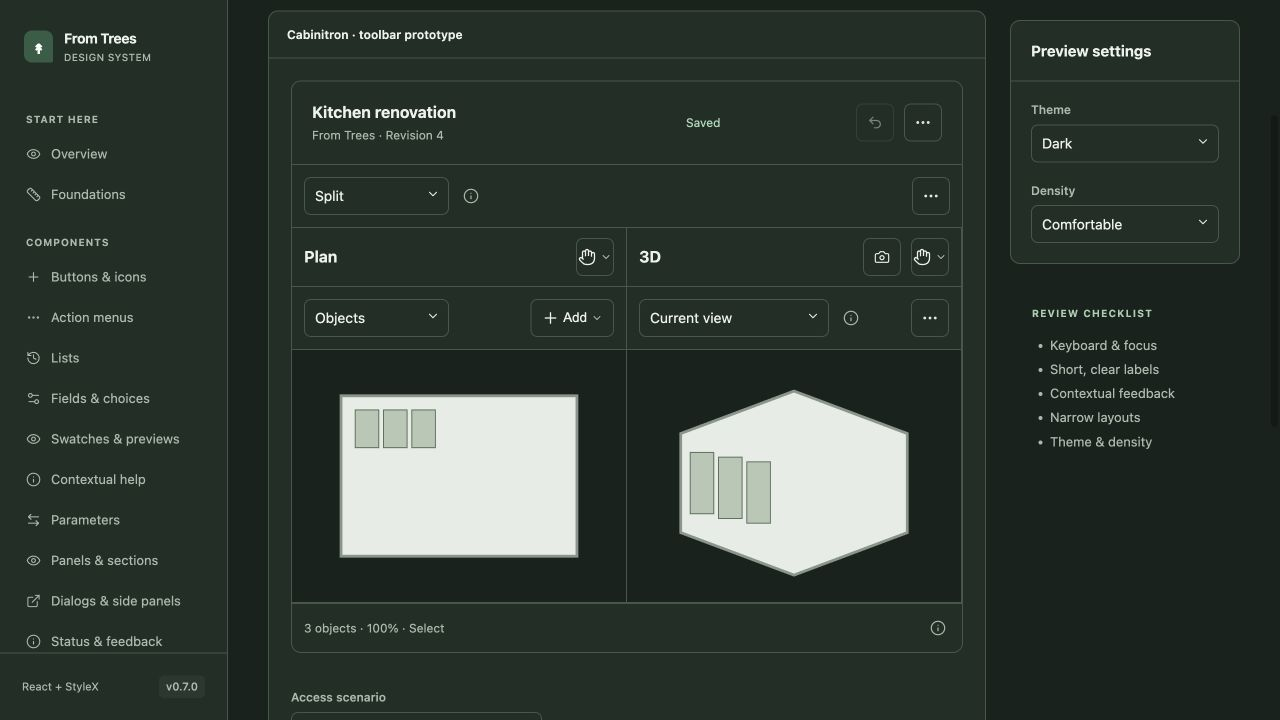
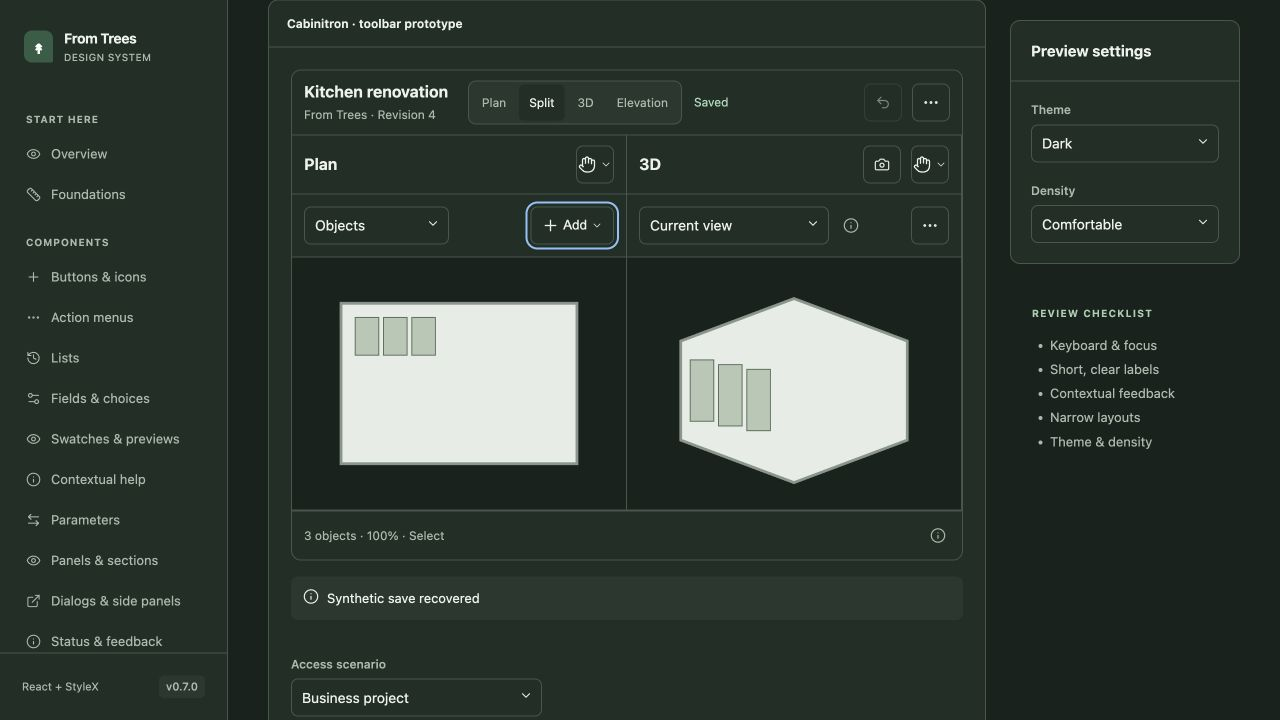
Merge workspace modes and actions into compact project header

diff --git a/apps/catalog/src/DesignerToolbarPrototype.tsx b/apps/catalog/src/DesignerToolbarPrototype.tsx
@@ -6,6 +6,7 @@ import {
   WorkspaceHeader,
   TaskHeader,
   Select,
+  SegmentedControl,
   Dialog,
   SidePanel,
   TextInput,
@@ -801,13 +802,10 @@ export function DesignerToolbarPrototype() {
                 onAction: undoAction,
               }}
               menuLabel="Project actions"
-              actions={projectActions}
-            />
-            <div {...stylex.props(styles.bar)}>
-              <CommandBar
-                label="Workspace commands"
-                menuLabel="Workspace tools"
-                actions={[
+              compact
+              actions={[
+                ...projectActions,
+                ...[
                   action(
                     "customize",
                     "Customize cabinet",
@@ -843,24 +841,25 @@ export function DesignerToolbarPrototype() {
                     () => open("Designer help"),
                     "info",
                   ),
-                ]}
-              >
-                {choose(
-                  "Workspace view",
-                  view,
-                  (value) => {
-                    setView(value);
-                    setPending(undefined);
-                  },
-                  ["Plan", "Split", "3D", "Elevation"],
-                )}
-                <InfoTooltip label="Workspace views">
-                  Plan and 3D share the same design. View changes do not edit
-                  the saved room. Elevations describe cabinetry-facing views;
-                  dimensions require field verification.
-                </InfoTooltip>
-              </CommandBar>
-            </div>
+                ].map((item, index) => ({
+                  ...item,
+                  separatorBefore: index === 0,
+                })),
+              ]}
+            >
+              <SegmentedControl
+                label="Workspace view"
+                value={view}
+                onChange={(value) => {
+                  setView(value);
+                  setPending(undefined);
+                }}
+                options={["Plan", "Split", "3D", "Elevation"].map((value) => ({
+                  value,
+                  label: value,
+                }))}
+              />
+            </WorkspaceHeader>
             {view === "Elevation" ? (
               <>
                 <WorkspaceHeader

diff --git a/packages/ui/src/CommandBar.tsx b/packages/ui/src/CommandBar.tsx
@@ -19,6 +19,7 @@ export type CommandBarProps = {
   menuIcon?: IconName;
   menuText?: string;
   status?: CommandStatus;
+  inline?: boolean;
 };
 const styles = stylex.create({
   bar: {
@@ -30,6 +31,17 @@ const styles = stylex.create({
     width: "100%",
     boxSizing: "border-box",
   },
+  inline: {
+    flexWrap: { default: "nowrap", "@media (max-width: 700px)": "wrap" },
+  },
+  inlineLeading: { flexShrink: 0 },
+  workspace: {
+    display: "grid",
+    gridTemplateColumns: {
+      default: "minmax(80px,1fr) minmax(0,auto)",
+      "@media (max-width: 700px)": "minmax(0,1fr)",
+    },
+  },
   leading: {
     display: "flex",
     alignItems: "center",
@@ -39,7 +51,7 @@ const styles = stylex.create({
     flexGrow: 1,
   },
   trailing: {
-    minWidth:0,
+    minWidth: 0,
     display: "flex",
     alignItems: "center",
     gap: 10,
@@ -145,15 +157,20 @@ export function CommandBar({
   menuIcon,
   menuText,
   status,
+  inline = false,
 }: CommandBarProps) {
   return (
     <div
       role="toolbar"
       aria-label={label}
       onKeyDown={arrowNavigation}
-      {...stylex.props(layout.row, gap.md, styles.bar)}
+      {...stylex.props(layout.row, gap.md, styles.bar, inline && styles.inline)}
     >
-      {children && <div {...stylex.props(styles.leading)}>{children}</div>}
+      {children && (
+        <div {...stylex.props(styles.leading, inline && styles.inlineLeading)}>
+          {children}
+        </div>
+      )}
       <div {...stylex.props(styles.trailing)}>
         {status && (
           <span
@@ -219,7 +236,11 @@ export function WorkspaceHeader({
   return (
     <header
       aria-labelledby={id}
-      {...stylex.props(styles.header, compact && styles.compact)}
+      {...stylex.props(
+        styles.header,
+        styles.workspace,
+        compact && styles.compact,
+      )}
     >
       <div {...stylex.props(styles.identity)}>
         <Heading id={id} title={title} {...stylex.props(styles.title)}>
@@ -232,7 +253,7 @@ export function WorkspaceHeader({
         )}
       </div>
       <div {...stylex.props(styles.commands)}>
-        <CommandBar {...commands} />
+        <CommandBar {...commands} inline />
       </div>
     </header>
   );

diff --git a/apps/catalog/test/DesignerToolbarPrototype.test.tsx b/apps/catalog/test/DesignerToolbarPrototype.test.tsx
@@ -14,6 +14,13 @@ const setup = () => {
 const select = (name: string) => screen.getByRole("combobox", { name });
 it("places through one add menu, supports cancel/undo/redo and retains state across views", async () => {
   const user = setup();
+  const commands = screen.getByRole("toolbar", { name: "Project commands" });
+  expect(
+    within(commands).getByRole("radiogroup", { name: "Workspace view" }),
+  ).toBeInTheDocument();
+  expect(
+    screen.queryByRole("toolbar", { name: "Workspace commands" }),
+  ).not.toBeInTheDocument();
   await user.click(screen.getByRole("button", { name: "Add to room" }));
   await user.click(screen.getByRole("menuitem", { name: "Cabinet" }));
   expect(
@@ -32,11 +39,11 @@ it("places through one add menu, supports cancel/undo/redo and retains state acr
   await user.click(screen.getByRole("button", { name: "Project actions" }));
   await user.click(screen.getByRole("menuitem", { name: "Redo" }));
   expect(screen.getByText(/4 objects/)).toBeInTheDocument();
-  await user.selectOptions(select("Workspace view"), "Elevation");
+  await user.click(screen.getByRole("radio", { name: "Elevation" }));
   expect(
     screen.getByRole("heading", { name: "Elevations" }),
   ).toBeInTheDocument();
-  await user.selectOptions(select("Workspace view"), "Split");
+  await user.click(screen.getByRole("radio", { name: "Split" }));
   expect(screen.getByText(/4 objects/)).toBeInTheDocument();
 });
 it("keeps public/customer capabilities distinct and recovers failed saves through the menu", async () => {
@@ -100,7 +107,7 @@ it("saves views through a focused task and confirms deletion", async () => {
 it("customizer has one task header and discards or saves its part draft", async () => {
   const user = setup();
   const open = async () => {
-    await user.click(screen.getByRole("button", { name: "Workspace tools" }));
+    await user.click(screen.getByRole("button", { name: "Project actions" }));
     await user.click(
       screen.getByRole("menuitem", { name: "Customize cabinet" }),
     );

diff --git a/apps/catalog/src/content.ts b/apps/catalog/src/content.ts
@@ -176,7 +176,7 @@ export const behavior: Partial<Record<PageId, string[]>> = {
   ],
   "designer-toolbars": [
     "One project header replaces duplicated host/document identity. Project actions retain their business-project, anonymous-draft and customer-view eligibility.",
-    "View and tool choices use selectors. Add commands and viewport navigation use menus; no rows of three or more exposed action buttons.",
+    "Workspace view modes use the existing segmented control inside the project header. Workspace commands join its menu; there is no separate selector toolbar. Other tool choices use selectors.",
     "Photo capture is a direct icon action. Saved-view selection has one management menu, including render options, first customer view and deletion.",
     "Customization owns a single Save/Cancel task header, a view/tool/snap command bar and focused part selection. This prototype does not replace the existing advanced editor.",
     "Review controls exercise save failures, read-only access, drafts and busy photos. All operations use synthetic local state; real geometry and external tasks are not implemented.",

diff --git a/docs/designer-toolbar-prototype.md b/docs/designer-toolbar-prototype.md
@@ -5,7 +5,7 @@ Review **Components → Headers & toolbars** (`#toolbars`) and **Patterns → De
 ## Shared components
 
 - `WorkspaceHeader`: one identity and command area. Title and metadata truncate without dropping their full text. Compact mode suits viewport headers. Avoid stacking host branding, document identity and a repeated marketing heading.
-- `CommandBar`: leading input controls, a reserved status slot, and at most one direct action plus a menu. Use familiar icons for direct commands; use a named/icon menu such as **Add** or **Parts** where an ellipsis would conceal the purpose. Native selects own view/tool decisions. Children must not smuggle in another action row.
+- `CommandBar`: leading input controls, a reserved status slot, and at most one direct action plus a menu. Use familiar icons for direct commands; use a named/icon menu such as **Add** or **Parts** where an ellipsis would conceal the purpose. Use segmented choices for workspace modes and native selects for other view/tool decisions. Children must not smuggle in another action row.
 - `TaskHeader`: one task title and exactly Cancel/Save. Busy disables repeat commit and dismissal; invalid drafts disable Save and retain visible error text. Replace a task's old header; do not nest this under another dialog header.
 - `MenuButton` adds optional `icon`/`text` triggers. Its existing ellipsis default remains unchanged for lists and ordinary overflow menus.
 
@@ -15,9 +15,9 @@ Applications own command eligibility, data, callbacks and persistence. None of t
 
 | Current Cabinitron surface | Proposed organization | Adoption obligations |
 | --- | --- | --- |
-| Public/embedded designer host header and business identity | One project identity, compact business/revision/access metadata, contextual project menu | Preserve workspace/site/sign-in links, embedded behavior and private customer-copy identity; suppress duplicate branding |
+| Public/embedded designer host header and business identity | One project identity, compact business/revision/access metadata, segmented views and merged project/workspace menu | Preserve workspace/site/sign-in links, embedded behavior and private customer-copy identity; suppress duplicate branding |
 | Project action bar | Undo icon plus Project actions; fixed-width save status | Preserve saved-project promotion, customer-package eligibility, room share/range/history, New room, conflict recovery and retry; never shift controls when status text changes |
-| Plan / Split / 3D / Elevation button row | One view selector | Keep the current view/selection state and all geometry intact |
+| Plan / Split / 3D / Elevation button row | Existing segmented view-mode control in the project header | Keep the current view/selection state and all geometry intact |
 | Plan viewport header and navigation | Compact Plan identity and navigation menu | Zoom in/out, Fit and Pan remain reachable; preserve keyboard/mouse alternatives |
 | Add cabinet / fixture / library / room-panel row | Named Add menu with the real libraries in focused selectors | Preserve existing generated 3D previews and all catalog categories; no illustrative geometry replaces them |
 | Outline editing toolbar | Outline mode plus named Tools menu; short placement status and info help | Retain add/split/merge/remove walls, doors/windows/openings, recess removal, eligibility checks, previews, Command modifiers and Escape cancellation |
@@ -34,7 +34,7 @@ Applications own command eligibility, data, callbacks and persistence. None of t
 
 ## Review scenarios
 
-1. Compare Plan, Split, 3D and Elevation. Their selectors retain state without pretending to edit geometry.
+1. Compare Plan, Split, 3D and Elevation. Their segmented choices retain state without pretending to edit geometry.
 2. Open Add, start a synthetic placement, cancel with Escape, then place and Undo/Redo. Repeat in outline mode.
 3. Change save state through Saved, Unsaved, Saving and the long error. Recover via Project actions. Direct command bounds must remain unchanged after fonts load.
 4. Compare business project, staff draft, public anonymous draft, customer view with/without copy permission, and editable customer copy. Public customers must not gain staff commands by creating a copy.
@@ -51,3 +51,5 @@ Focused tests exercise generic command grouping/keyboard behavior, unchanged exi
 The viewport drawings and object/part counts are schematic review aids. Photo completion is controlled manually. History, sharing, rendering options, customer packages and navigation open illustrative task surfaces; their existing app implementations are not recreated here. The app adoption must bind the confirmed chrome to real commands and keep the whole geometry/material/saved-revision model. Do not use this catalog's fixture state as product logic.
 
 Follow-up delivery is a separate Cabinitron diff after the user confirms this catalog behavior. No package publication, Cabinitron integration or production release is part of this PR.
+
+The project header owns the existing segmented view-mode control. There is no separate workspace selector/menu row. Workspace commands join the project menu after a separator; the segmented choices are modes, not command buttons. Regular widths keep this in one compact header; narrow screens reflow within that same header.

diff --git a/docs/components.md b/docs/components.md
@@ -217,6 +217,6 @@ Use it for materials, colors, profiles, cabinet configurations and other choices
 <TaskHeader title="Edit document" onCancel={discard} onSave={commit} disabled={!valid} busy={saving} error={error} />
 ```
 
-`CommandBar` accepts input controls as children and owns its direct-action/menu layout. `primary` extends the shared Action shape with optional `busy`. `menuIcon`/`menuText` make contextual menus discoverable; ordinary overflow uses the existing ellipsis trigger. `status` retains a fixed width and the full accessible/native-tooltip text while visually truncating. Tab reaches controls, arrow/Home/End keys move between enabled toolbar buttons, native select keys remain native, and menus retain their own focus behavior.
+`CommandBar` accepts input controls as children and owns its direct-action/menu layout. `inline` keeps its control and action groups together above 700 px, wrapping on narrow screens. `primary` extends the shared Action shape with optional `busy`. `menuIcon`/`menuText` make contextual menus discoverable; ordinary overflow uses the existing ellipsis trigger. `status` retains a fixed width and the full accessible/native-tooltip text while visually truncating. Tab reaches controls, arrow/Home/End keys move between enabled toolbar buttons, native select keys remain native, and menus retain their own focus behavior.
 
-`WorkspaceHeader` supports title, optional metadata, heading `level` (1–3), `compact`, and the command-bar props. `TaskHeader` owns exactly Cancel and Save, optional description/error and save label. A task must have one owning header; do not add it underneath the header of an existing overlay. The designer catalog prototype and its full adoption inventory live in [designer-toolbar-prototype.md](designer-toolbar-prototype.md).
+`WorkspaceHeader` supports title, optional metadata, heading `level` (1–3), `compact`, and the command-bar props. It places identity and commands in one desktop row and stacks them on narrow screens. Place mode choices in its children using the shared `SegmentedControl`; merge workspace commands into its action menu instead of adding another toolbar. `TaskHeader` owns exactly Cancel and Save, optional description/error and save label. A task must have one owning header; do not add it underneath the header of an existing overlay. The designer catalog prototype and its full adoption inventory live in [designer-toolbar-prototype.md](designer-toolbar-prototype.md).

diff --git a/docs/review/designer-toolbars/README.md b/docs/review/designer-toolbars/README.md
@@ -2,13 +2,15 @@
 
 All captures are from the local static catalog build with synthetic state. The drawings illustrate placement and hierarchy; they are not replacements for Cabinitron's geometry or previews.
 
-- `desktop.png`: one project identity, fixed save-status area, workspace selector, compact viewport headers, named Add menu and saved-view management.
+- `desktop.png`: one project identity, fixed save-status area, segmented workspace modes in the same project header, compact viewport headers, named Add menu and saved-view management.
 - `add-menu.png`: discoverable Add trigger and compact command menu.
 - `error-project-menu.png`: full save failure retained accessibly and recovery in Project actions.
 - `customizer.png`: one task header, Cancel/Save, view/tool/snap controls, named Parts menu and compact readout.
 - `narrow.png`: 390 px viewport. Document scroll width was 390 px; project command buttons remained inside the viewport.
 - `dark.png`: themed headers, menu triggers, selectors and readouts.
 
-After `document.fonts.ready`, changing Saved to the long error message gave identical direct-command bounds at the desktop review width: Undo x=856, Project actions x=904; both 38 × 38, y=109.6953125. These are local catalog measurements, not production telemetry.
+After `document.fonts.ready`, changing Saved to the long error message gave identical direct-command bounds at the desktop review width: Undo x=864, Project actions x=912; both 38 × 38, y=100.3984375. These are local catalog measurements, not production telemetry.
 
 Validation: focused shared-header/prototype tests plus existing menu/list tests; lint, type checks, library/catalog build and native package check. Full tests remain in CI. See ../../designer-toolbar-prototype.md for the complete application surface inventory and the division between real component behavior and synthetic workflow state.
+
+The compact-header adjustment removes the separate workspace-selector toolbar and combines its commands into Project actions. `before-compact-header.png` preserves the prior desktop catalog capture for comparison.
